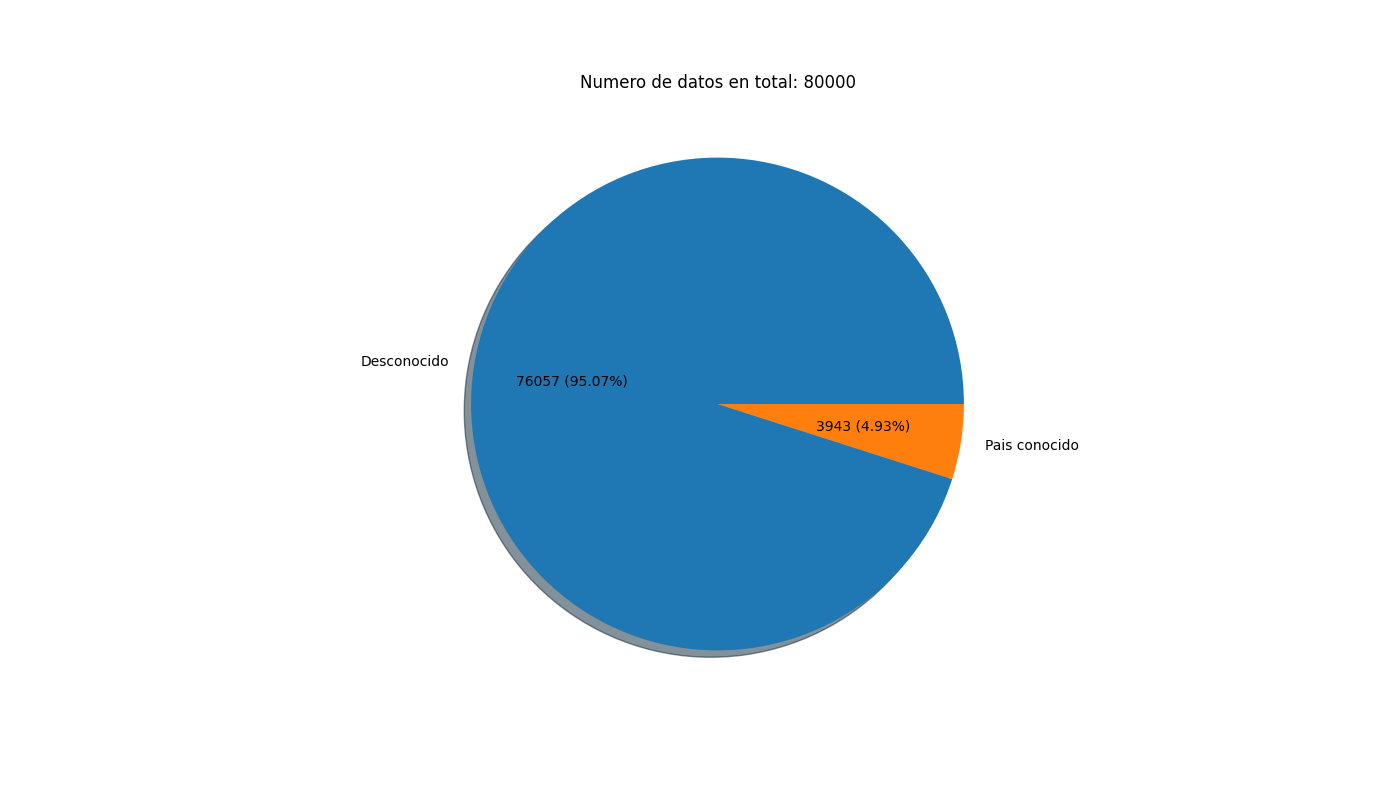
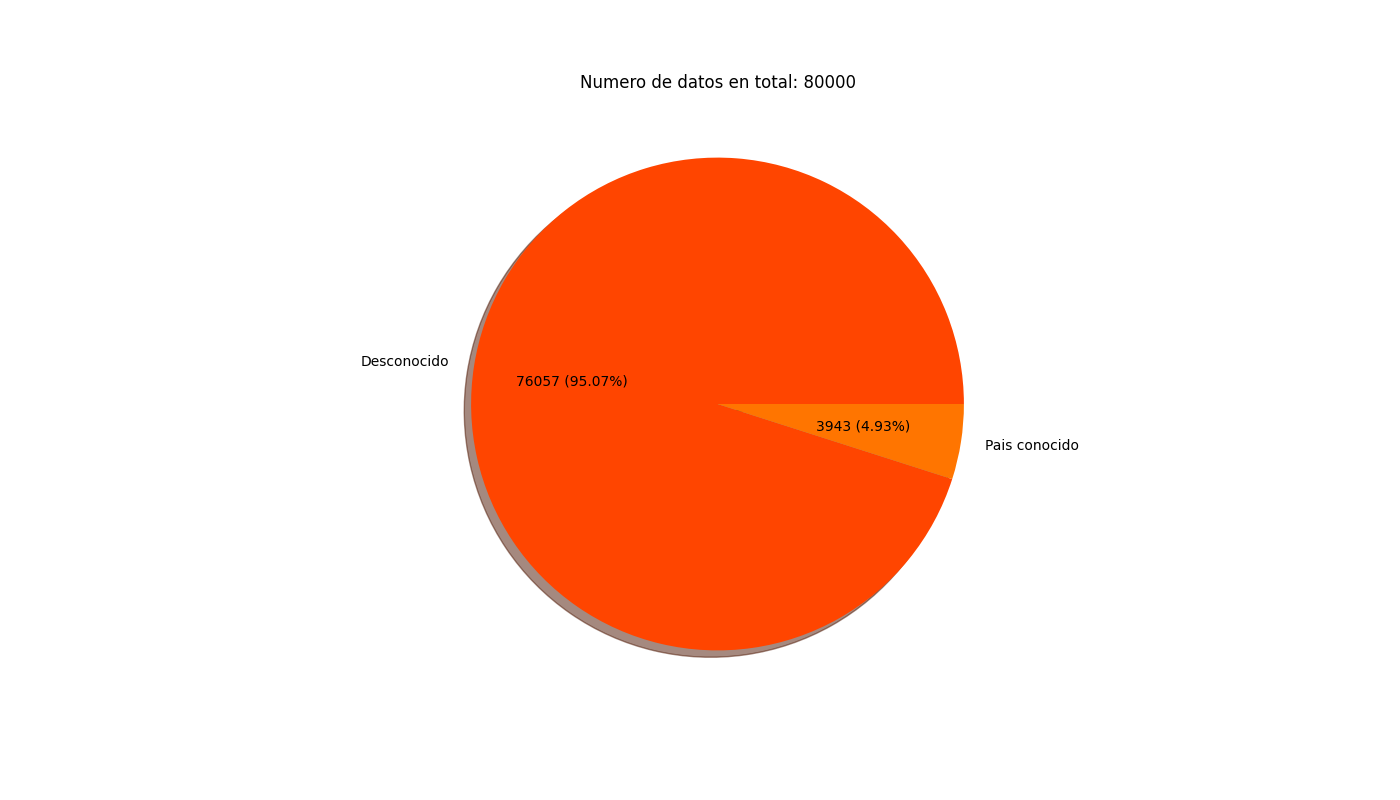
mejoras en las graficas

Changed region(s): [[0.3071, 0.1875, 0.7064, 0.8438]]

diff --git a/captura de datos/5.data_analysis.py b/captura de datos/5.data_analysis.py
@@ -1,5 +1,6 @@
 import unidecode
 import pandas as pd
+from colour import Color
 import matplotlib.pyplot as plt
 from nltk.stem import SnowballStemmer
 import os, sys, math, datetime, collections
@@ -263,10 +264,19 @@ def make_autopct(values):
     return my_autopct
 
 
+red = Color("orangered")
+colors = list(red.range_to(Color("orange"), max([
+    len(vector_conteo_idiomas_global),
+    len(vector_conteo_idiomas),
+    len(vector_conteo_m),
+    len(vector_conteo)
+])))
+colors = [color.rgb for color in colors]
+
 print("Generando graficas")
 
 plt.pie(vector_conteo_idiomas_global, labels=vector_idiomas_global, shadow=True,
-        autopct=make_autopct(vector_conteo_idiomas_global))
+        autopct=make_autopct(vector_conteo_idiomas_global), colors=colors)
 plt.title('Numero de datos en total: ' + str(global_count))
 plt.gcf().set_size_inches(14, 8)
 plt.savefig('./graficas datos/' + str(usar_muestra) + '_analisis_idiomas.png')
@@ -274,7 +284,7 @@ plt.clf()
 
 del vector_conteo_idiomas_global, vector_idiomas_global
 
-plt.pie(vector_conteo_m, labels=vector_etiquetas_m, shadow=True, autopct=make_autopct(vector_conteo_m))
+plt.pie(vector_conteo_m, labels=vector_etiquetas_m, shadow=True, autopct=make_autopct(vector_conteo_m), colors=colors)
 plt.title('Numero de datos usados para realizar el preconteo: ' + str(global_count))
 plt.gcf().set_size_inches(14, 8)
 plt.savefig('./graficas datos/' + str(usar_muestra) + '_analisis_preconteo_mourning.png')
@@ -282,7 +292,8 @@ plt.clf()
 
 del vector_etiquetas_m, vector_conteo_m
 
-plt.pie(vector_conteo_idiomas, labels=vector_idiomas, shadow=True, autopct=make_autopct(vector_conteo_idiomas))
+plt.pie(vector_conteo_idiomas, labels=vector_idiomas, shadow=True, autopct=make_autopct(vector_conteo_idiomas),
+        colors=colors)
 plt.title('Numero de datos con cincidencia en el preconteo: ' + str(matched_mourning_tweets))
 plt.gcf().set_size_inches(14, 8)
 plt.savefig('./graficas datos/' + str(usar_muestra) + '_analisis_idiomas_preconteo_mourning.png')
@@ -290,7 +301,7 @@ plt.clf()
 
 del vector_idiomas, vector_conteo_idiomas
 
-plt.pie(vector_conteo, labels=vector_etiquetas, shadow=True, autopct=make_autopct(vector_conteo))
+plt.pie(vector_conteo, labels=vector_etiquetas, shadow=True, autopct=make_autopct(vector_conteo), colors=colors)
 plt.title('Numero de datos en total: ' + str(global_count))
 plt.gcf().set_size_inches(14, 8)
 plt.savefig('./graficas datos/' + str(usar_muestra) + '_analisis_paises.png')

diff --git a/entrenamiento de modelos/1.analizar.py b/entrenamiento de modelos/1.analizar.py
@@ -2,10 +2,10 @@ from cargar_datos import get_mourning_df, get_feelings_df
 import matplotlib.pyplot as plt
 import pandas as pd
 import sys, collections
-
+from colour import Color
 
 print("")
-balanceado = 1
+balanceado = 0
 df_mourning = pd.DataFrame(get_mourning_df(0, balanceado, 1))
 df_sentiments = pd.DataFrame(get_feelings_df(0, balanceado, 1))
 
@@ -60,13 +60,19 @@ def make_autopct(values):
     return my_autopct
 
 
-plt.pie(vector_conteo1, labels=vector_etiquetas1, shadow=True, autopct=make_autopct(vector_conteo1))
+red = Color("orangered")
+colors = list(red.range_to(Color("orange"), max([len(vector_conteo1), len(vector_conteo2)])))
+colors = [color.rgb for color in colors]
+
+plt.pie(vector_conteo1, labels=vector_etiquetas1, shadow=True, autopct=make_autopct(vector_conteo1),
+        colors=colors)
 plt.title('Numero de datos usados para entrenar los modelos de luto: ' + str(df_mourning.shape[0]))
 plt.gcf().set_size_inches(14, 8)
 plt.savefig('./graficas datos/' + str(balanceado) + '_distribucion_datos_entrenamiento_mourning.png')
 plt.clf()
 
-plt.pie(vector_conteo2, labels=vector_etiquetas2, shadow=True, autopct=make_autopct(vector_conteo2))
+plt.pie(vector_conteo2, labels=vector_etiquetas2, shadow=True, autopct=make_autopct(vector_conteo2),
+        colors=colors)
 plt.title('Numero de datos usados para entrenar los modelos de sentimientos: ' + str(df_sentiments.shape[0]))
 plt.gcf().set_size_inches(14, 8)
 plt.savefig('./graficas datos/' + str(balanceado) + '_distribucion_datos_entrenamiento_sentiments.png')
